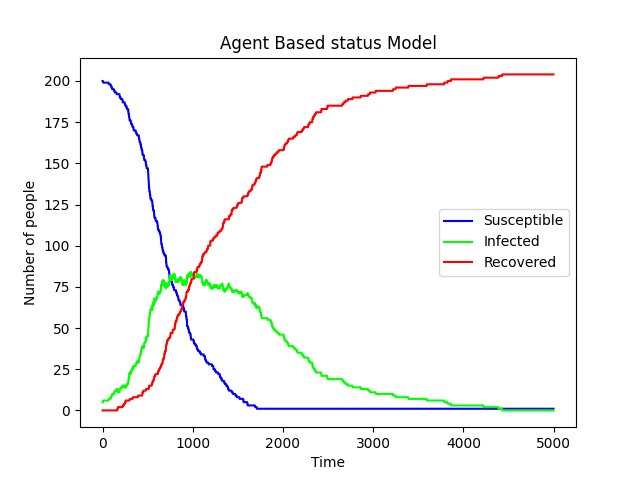
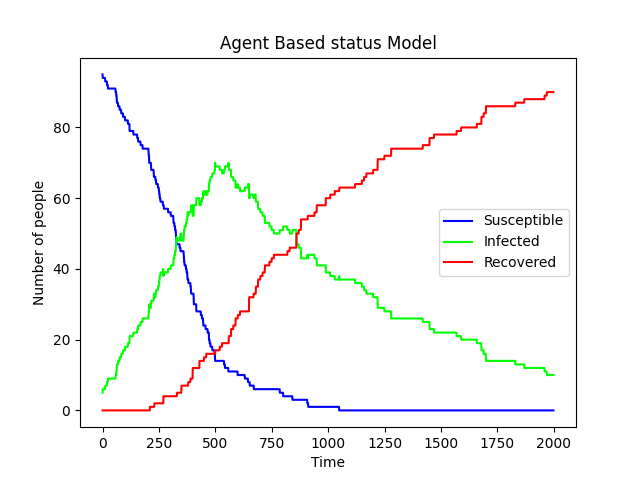
added hospital limit

diff --git a/Agent/agents.py b/Agent/agents.py
@@ -87,38 +87,6 @@ class Person:
 			self.color = RED
 
 
-class HomePerson(Person):
-
-	'''
-	This is an extension of the base Person class such that each HomePerson has an area within the environment, which it stays within.
-	This is to simulate more closely real world, heterogeneous population mixing.
-	'''
-	
-	def __init__(self, home, home_size, position, velocity, radius, gamma, beta, width, height, status):
-		
-		self.home = home
-		self.home_size = home_size
-		Person.__init__(self, position, velocity, radius, gamma, beta, width, height, status)
-
-	def position_update(self):
-
-		if self.position[0] + self.radius > self.width or self.position[0] - self.radius < 0:
-			self.velocity[0] = -self.velocity[0]
-			
-		if self.position[1] + self.radius > self.height or self.position[1] - self.radius < 0:
-			self.velocity[1] = -self.velocity[1]
-
-
-		if np.linalg.norm(self.position - self.home) > (self.home_size - self.radius):
-			normal = self.position - self.home
-			u = ( np.dot(self.velocity, normal)/np.dot(normal, normal) ) * normal
-			w = self.velocity - u
-			self.velocity = w - u
-
-
-		self.position += self.velocity
-		
-
 
 class DeathPerson(Person):
 
@@ -204,19 +172,65 @@ class QuarantineDeathPerson(DeathPerson):
 
 
 
+class Hospital_Limit_Person(QuarantineDeathPerson):
 
-class Hospitalisations(QuarantineDeathPerson):
+	def __init__(self, position, velocity, radius, gamma, beta, mu, kappa, width, height, status, hospital_factor):
+		self.hospital_factor = hospital_factor
+		QuarantineDeathPerson.__init__(self, position, velocity, radius, gamma, beta, mu, kappa, width, height, status)
 
-	def __init__(self, max_hospital):
-
-		self.max_hospital = max_hospital
-
-	def status_update(self):
-		pass
 
 	def hospital_status_update(self):
-		pass
+		if self.status == 'I' and random() < self.gamma:
+			self.status = 'R'
+			self.color = RED
 
+		if self.status == 'I' and random() < self.hospital_factor*self.mu:
+			self.status = 'D'
+			self.color = GREY
+			self.velocity = np.array([0, 0])
+
+		if self.status == 'Q' and random() < self.gamma:
+			self.status = 'R'
+			self.color = RED
+			self.velocity = np.array([(random() - 0.5)*2,(random() - 0.5)*2]) 
+
+		if self.status == 'Q' and random() < self.hospital_factor*self.mu:
+			self.status = 'D'
+			self.color = GREY
+			self.velocity = np.array([0,0])
+
+
+class HomePerson(Person):
+
+	'''
+	This is an extension of the base Person class such that each HomePerson has an area within the environment, which it stays within.
+	This is to simulate more closely real world, heterogeneous population mixing.
+	'''
+	
+	def __init__(self, home, home_size, position, velocity, radius, gamma, beta, width, height, status):
+		
+		self.home = home
+		self.home_size = home_size
+		Person.__init__(self, position, velocity, radius, gamma, beta, width, height, status)
+
+	def position_update(self):
+
+		if self.position[0] + self.radius > self.width or self.position[0] - self.radius < 0:
+			self.velocity[0] = -self.velocity[0]
+			
+		if self.position[1] + self.radius > self.height or self.position[1] - self.radius < 0:
+			self.velocity[1] = -self.velocity[1]
+
+
+		if np.linalg.norm(self.position - self.home) > (self.home_size - self.radius):
+			normal = self.position - self.home
+			u = ( np.dot(self.velocity, normal)/np.dot(normal, normal) ) * normal
+			w = self.velocity - u
+			self.velocity = w - u
+
+
+		self.position += self.velocity
+		
 
 
 # ----------------- Functions for initialising simulations --------------------------------------------------------
@@ -241,8 +255,8 @@ def create_SIR_population(N, init_I, radius, beta, gamma, width, height):
 		x = radius + random()*(width - 2*radius)
 		y = radius + random()*(height - 2*radius)
 
-		xspeed = (random() - 0.5)*2
-		yspeed = (random() - 0.5)*2
+		xspeed = (random() - 0.5)*3
+		yspeed = (random() - 0.5)*3
 
 		population.append( Person(position=np.array([x,y]), velocity=np.array([xspeed, yspeed]), status='S', radius=radius, \
 									gamma=gamma, beta=beta, width=width, height=height) )
@@ -261,8 +275,8 @@ def create_SIRD_population(N, init_I, radius, beta, gamma, mu, width, height):
 		x = radius + random()*(width - 2*radius)
 		y = radius + random()*(height - 2*radius)
 
-		xspeed = (random() - 0.5)*2
-		yspeed = (random() - 0.5)*2
+		xspeed = (random() - 0.5)*3
+		yspeed = (random() - 0.5)*3
 
 		population.append( DeathPerson(position=np.array([x,y]), velocity=np.array([xspeed, yspeed]), status='S', radius=radius, \
 										gamma=gamma, beta=beta, mu=mu, width=width, height=height) )
@@ -281,8 +295,8 @@ def create_SIRQD_population(N, init_I, radius, beta, gamma, mu, kappa, width, he
 		x = radius + random()*(width - 2*radius)
 		y = radius + random()*(height - 2*radius)
 
-		xspeed = (random() - 0.5)*2
-		yspeed = (random() - 0.5)*2
+		xspeed = (random() - 0.5)*3
+		yspeed = (random() - 0.5)*3
 
 		population.append( QuarantineDeathPerson(position=np.array([x,y]), velocity=np.array([xspeed, yspeed]), status='S', radius=radius, \
 												gamma=gamma, beta=beta, mu=mu, kappa=kappa, width=width, height=height) )
@@ -301,8 +315,8 @@ def create_SIRQD_population_with_age_profile(N_old, N_young, init_I, radius, bet
 		x = radius + random()*(width - 2*radius)
 		y = radius + random()*(height - 2*radius)
 
-		xspeed = (random() - 0.5)*2
-		yspeed = (random() - 0.5)*2
+		xspeed = (random() - 0.5)*3
+		yspeed = (random() - 0.5)*3
 
 		population.append( QuarantineDeathPerson(position=np.array([x,y]), velocity=np.array([xspeed, yspeed]), status='S', radius=radius, \
 												gamma=gamma, beta=beta, mu=old_mu, kappa=kappa, width=width, height=height) )
@@ -311,11 +325,31 @@ def create_SIRQD_population_with_age_profile(N_old, N_young, init_I, radius, bet
 		x = radius + random()*(width - 2*radius)
 		y = radius + random()*(height - 2*radius)
 
-		xspeed = (random() - 0.5)*2
-		yspeed = (random() - 0.5)*2
+		xspeed = (random() - 0.5)*3
+		yspeed = (random() - 0.5)*3
 
 		population.append( QuarantineDeathPerson(position=np.array([x,y]), velocity=np.array([xspeed, yspeed]), status='S', radius=radius, \
 												gamma=gamma, beta=beta, mu=young_mu, kappa=kappa, width=width, height=height) )
+
+	initial_infection(init_I, population)
+
+	return population
+
+
+def create_SIRQD_population_with_hospital_limit(N, init_I, radius, beta, gamma, mu, kappa, width, height, hospital_factor):
+
+	# Creates an array of agents.
+	population = []
+
+	for i in range(N):
+		x = radius + random()*(width - 2*radius)
+		y = radius + random()*(height - 2*radius)
+
+		xspeed = (random() - 0.5)*3
+		yspeed = (random() - 0.5)*3
+
+		population.append( Hospital_Limit_Person(position=np.array([x,y]), velocity=np.array([xspeed, yspeed]), status='S', radius=radius, \
+												gamma=gamma, beta=beta, mu=mu, kappa=kappa, width=width, height=height, hospital_factor=hospital_factor) )
 
 	initial_infection(init_I, population)
 

diff --git a/Agent/AgentHospitalLimitSIRQDModel.py b/Agent/AgentHospitalLimitSIRQDModel.py
@@ -1,9 +1,12 @@
 '''
-Many diseases affect people in older age groups more than younger age groups.
-This simulation implements this possibility inside a regular agent based SIRQD model.
-A population is created with two age profiles. Agents can be either old or young.
-The agents in the old population have a higher death rate.
-The results are immediately plotted and save to the Plots folder.
+The death rate from a disease is not always constant.
+If the number of people in hospital saturates the availability of hospital beds,
+then it is expected that the death rate would increase.
+This simulation implements this scenario, inside of a SIRQD simulation.
+The parameter hospital_limit controls when the hospital system is saturated.
+The parameter hospital_factor controls by what factor the death rate increase when the hospital system is saturated.
+It can be run with or without animation by changing the ANIMATION_FLAG constant to True or False.
+The results are immediatly plotted and the plot saved in the Plots folder.
 '''
 import numpy as np
 import pygame
@@ -17,19 +20,19 @@ ANIMATION_FLAG = True  # Change this depending on if you want an animation or no
 width, height = 800, 600 # This determines the size of the environment for the agents
 radius = 15.0 # This determines the size of the agents
 
-T = 2000 # The length of time the simulation will run for. 2000 works well.
+T = 2000 # The length of time the simulation will run for. 2000 works well for status model.
 
 # The disease parameters
-beta = 0.05 # The infection rate
 gamma = 0.015 # The rate of recovery
-old_mu = 0.04 # The death rate for old people
-young_mu = 0.015 # The death rate for young people
+beta = 0.05 # The infection rate
+mu = 0.015 # The death rate
 kappa = 0.5 # The quarantine rate
 
-N_old = 30 # The number of old people
-N_young = 70 # The number of young people
-init_I = 5 # The number of Infectious agents at beginning of simulation
+hospital_limit = 20
+hospital_factor = 2
 
+N = 100 # The total number of agents
+init_I = 5 # The number of Infectious agents at beginning of simulation
 
 WHITE = (255, 255, 255)
 if ANIMATION_FLAG: # Some set up for animation
@@ -38,7 +41,9 @@ if ANIMATION_FLAG: # Some set up for animation
 	clock = pygame.time.Clock()
 
 # This set ups the simulation using a function defined in agents.py
-population = agents.create_SIRQD_population_with_age_profile(N_old, N_young, init_I, radius, beta, gamma, old_mu, young_mu, kappa, width, height)
+population = agents.create_SIRQD_population_with_hospital_limit(N, init_I, radius, beta, gamma, mu, kappa, width, height, hospital_factor)
+
+
 
 # Arrays to store the number of agents in each category at each time step
 Sarray = np.zeros(T)
@@ -46,7 +51,6 @@ Iarray = np.zeros(T)
 Rarray = np.zeros(T)
 Darray = np.zeros(T)
 Qarray = np.zeros(T)
-old_Darray = np.zeros(T)
 
 # The simulation loop
 for i in range(T):
@@ -63,7 +67,10 @@ for i in range(T):
 		# This stops them from turning from I to D or I to R etc. too quickly.
 		# And it keeps gamma and mu values on more realistic scale.
 		if i % 10 == 0:
-			person.status_update()
+			if Iarray[i-1] < hospital_limit:
+				person.hospital_status_update()
+			else:
+				person.status_update()
 		
 		person.position_update()
 
@@ -78,8 +85,6 @@ for i in range(T):
 			Rarray[i] += 1
 		elif person.status == 'D':
 			Darray[i] += 1
-			if person.mu == old_mu:
-				old_Darray[i] += 1
 		else:
 			Qarray[i] += 1
 	
@@ -101,13 +106,10 @@ plt.plot(Rarray, label='Recovered', color=(1,0,0))
 plt.plot(Darray, label='Dead', color=(0.3,0.3,0.3))
 plt.plot(Qarray, label='Quarantined', color=(0.5,0,0.5))
 
-old_deaths_percent = round(100*old_Darray[-1]/Darray[-1],2)
-plt.plot([], label=f'Old % deaths: {old_deaths_percent}', color=(1,1,1))
-plt.plot([], label=f'Old % of population: {round((100*N_old)/(N_old+N_young),2)}', color=(1,1,1))
-
 plt.xlabel("Time")
 plt.ylabel("Number of people")
-plt.title("Agent Based SIRQD Model with Age Profiles")
+plt.title("Agent Based SIRQD Model")
 plt.legend(loc=0)
 
-plt.savefig("./Plots/AgentAgeProfileSIRQDModel.png")
+plt.savefig("./Plots/AgentSIRQDModel.png")
+

diff --git a/Agent/AgentSIRDModel.py b/Agent/AgentSIRDModel.py
@@ -1,6 +1,7 @@
 '''
-This runs one instance of the basic simulation, which is composed solely of agents of the base Person class defined in agents.py.
-This is analagous to the status equation based model.
+This implements an agent simulation analagous to the SIRD equation based model.
+Agents can be either; Susceptible, Infectious, Recovered or Dead.
+Agents that are Dead will be coloured grey and will stop moving.
 It can be run with or without animation by setting the ANIMATION_FLAG to true or false.
 The data from the simulation is not stored but is immediately plotted and the plot saved to the Plots folder.
 '''
@@ -14,16 +15,16 @@ import agents
 ANIMATION_FLAG = True  # Change this depending on if you want an animation or not.
 
 width, height = 800, 600 # This determines the size of the environment for the agents
-radius = 10.0 # This determines the size of the agents
+radius = 15.0 # This determines the size of the agents
 
-T = 500 # The length of time the simulation will run for. 5000 works well for status model.
+T = 500 # The length of time the simulation will run for. 2000 works well.
 
 # The disease parameters
 gamma = 0.015 # The rate of recovery
 beta = 0.05 # The infection rate
 mu = 0.015 # The death rate
 
-N = 200 # The total number of agents
+N = 100 # The total number of agents
 init_I = 5 # The number of Infectious agents at beginning of simulation
 
 WHITE = (255, 255, 255)

diff --git a/Agent/AgentSIRQDModel.py b/Agent/AgentSIRQDModel.py
@@ -1,4 +1,13 @@
-from Agent.RepeatedAgentSIRModel import N
+'''
+This is analagous to the SIRQD equation based model.
+It can be run with or without animation by changing the ANIMATION_FLAG constant to True or False.
+Agents can have five possible health statuses; Susceptible, Infectious, Recovered, Quarantined, Dead.
+When Quarantined an agent will be coloured purple and will not move.
+From Quarantine it then becomes either Recovered or Dead and will change colour accordingly.
+The percentage of agents that enter quarantine is controlled by the parameter kappa.
+As soon as an agent is infected, it has a probability of kappa of entering quarantine.
+The results are immediatly plotted and the plot saved in the Plots folder.
+'''
 import numpy as np
 import pygame
 import sys
@@ -9,9 +18,9 @@ import agents
 ANIMATION_FLAG = True  # Change this depending on if you want an animation or not.
 
 width, height = 800, 600 # This determines the size of the environment for the agents
-radius = 10.0 # This determines the size of the agents
+radius = 15.0 # This determines the size of the agents
 
-T = 5000 # The length of time the simulation will run for. 5000 works well for status model.
+T = 2000 # The length of time the simulation will run for. 2000 works well for status model.
 
 # The disease parameters
 gamma = 0.015 # The rate of recovery

diff --git a/Agent/AgentSIRModel.py b/Agent/AgentSIRModel.py
@@ -1,6 +1,8 @@
 '''
 This runs one instance of the basic simulation, which is composed solely of agents of the base Person class defined in agents.py.
-This is analagous to the status equation based model.
+This is analagous to the SIR equation based model.
+Agents have three possible statuses; Susceptible, Infectious or Recovered.
+Susceptible agents are coloured blue, Infectious coloured green and Recovered coloured red.
 It can be run with or without animation by setting the ANIMATION_FLAG to true or false.
 The data from the simulation is not stored but is immediately plotted and the plot saved to the Plots folder.
 '''
@@ -14,9 +16,9 @@ import agents
 ANIMATION_FLAG = True  # Change this depending on if you want an animation or not.
 
 width, height = 800, 600 # This determines the size of the environment for the agents
-radius = 10.0 # This determines the size of the agents
+radius = 15.0 # This determines the size of the agents
 
-T = 5000 # The length of time the simulation will run for. 5000 works well for status model.
+T = 2000 # The length of time the simulation will run for. 2000 works well.
 
 gamma = 0.015 # The rate of recovery
 beta = 0.05 # The infection rate

diff --git a/README.md b/README.md
@@ -86,7 +86,7 @@ After the simulation and animation have finished, a plot is created and saved to
 
 ### Repeated Scripts
 
-Also located in this folder are the files beginning with `Repeated`. These run each of the agents based models multiple times. The data produced from these scripts is saved as a `csv` file to the `Data` folder. As these scripts run simulations with a large number of agents, and repeat them multiple times, they can take a long time to run, usually between 30 to 60 minutes. As a result there is no animation option for these scripts.
+Also located in this folder are the files beginning with `Repeated`. These run each of the agents based models multiple times. The data produced from these scripts is saved as a `csv` file to the `Data` folder. As these scripts run simulations with a large number of agents, and repeat them multiple times, they can take a long time to run, usually between 30 to 60 minutes for ten repeats. As a result there is no animation option for these scripts.
 
 These also have a number of tunable parameters located near the top of the scripts. However, as these take so long to run, and are just repeated simulations of the same type as the animation scripts, I would recommend just running the animation scripts.
 
@@ -113,5 +113,5 @@ There are a number of functions used to set up simulations located in this file.
 
 There are many tunable options for the animations and it can be quite interesting to watch them unfold. I have set some reasonable default parameters, but it is worth playing around to see the different outcomes.
 The equation based models also have tunable parameters, and it is interesting to compare the resulting plots to the plots produced by the agent based models.
-I have optimised the simulations as best I could, but Python is not the quickest language, and while the animations run well usually, for some of the more complicated models, the frame rates can noticeably drop after 100 agents.
+I have optimised the simulations as best I could, but Python is not the quickest language, and while the animations run well usually, for some of the more complicated models, the frame rates can noticeably drop when the number of agents exceeds 200.
 On my personal website I have an [interactive version](https://flbrack.com/posts/2021-07-01-agent/#interactive-animation) of the simple SIR model, which is also fun to play around with.
